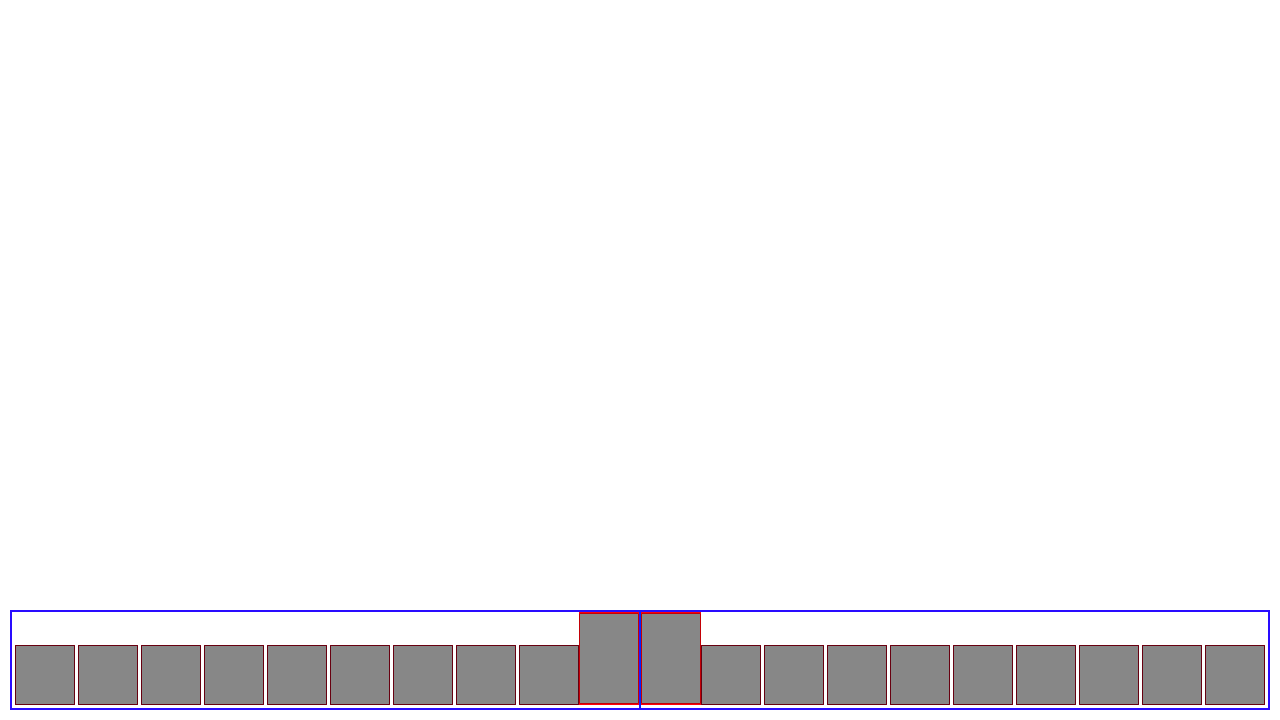
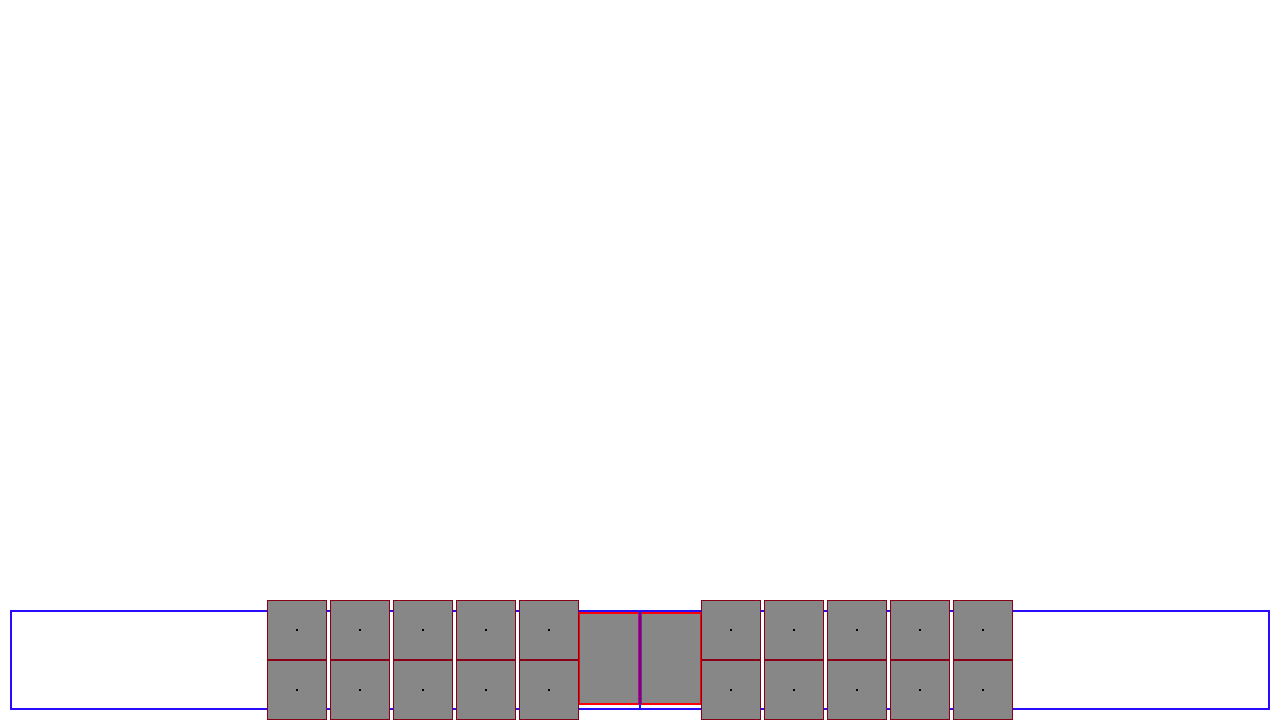
Modifying hotbar Slots to double efficiency.

Changed region(s): [[0.5312, 0.825, 1.0, 1.0], [0.0, 0.825, 0.4688, 1.0]]

diff --git a/src/globalvars.cpp b/src/globalvars.cpp
@@ -108,6 +108,7 @@ critScore::critScore()
 
 void assignSlotPos()
 {
+    /* Old straight line slot positions.
     for( int i = 0; i != 20; i++)
     {
         sf::Vector2f vPos;
@@ -158,6 +159,65 @@ void assignSlotPos()
                 vPos = sf::Vector2f(1234, 674);
         gvars::slotPos.push_back(vPos);
     }
+
+    */
+
+    for( int i = 0; i != 20; i++)
+    {
+        sf::Vector2f vPos;
+            //Left slots
+            if(i == 0)
+                vPos = sf::Vector2f(608,657);
+            if(i == 1)
+                vPos = sf::Vector2f(670,657);
+
+            if(i == 2)
+                vPos = sf::Vector2f(548, 629); // 764?
+            if(i == 4)
+                vPos = sf::Vector2f(548, 689);
+            if(i == 6)
+                vPos = sf::Vector2f(485, 629);
+            if(i == 8)
+                vPos = sf::Vector2f(485, 689);
+            if(i == 10)
+                vPos = sf::Vector2f(422, 629);
+            if(i == 12)
+                vPos = sf::Vector2f(422, 689);
+            if(i == 14)
+                vPos = sf::Vector2f(359, 629);
+            if(i == 16)
+                vPos = sf::Vector2f(359, 689);
+            if(i == 18)
+                vPos = sf::Vector2f(296, 629);
+            if(i == 20)
+                vPos = sf::Vector2f(296, 689);
+
+
+            // Right slots
+            if(i == 3)
+                vPos = sf::Vector2f(730, 629);
+            if(i == 5)
+                vPos = sf::Vector2f(730, 689);
+            if(i == 7)
+                vPos = sf::Vector2f(793, 629);
+            if(i == 9)
+                vPos = sf::Vector2f(793, 689);
+            if(i == 11)
+                vPos = sf::Vector2f(858, 629);
+            if(i == 13)
+                vPos = sf::Vector2f(858, 689);
+            if(i == 15)
+                vPos = sf::Vector2f(919, 629);
+            if(i == 17)
+                vPos = sf::Vector2f(919, 689);
+            if(i == 19)
+                vPos = sf::Vector2f(982, 629);
+            if(i == 21)
+                vPos = sf::Vector2f(982, 689);
+        gvars::slotPos.push_back(vPos);
+    }
+
+
 
 }
 

diff --git a/src/BountyTower.cpp b/src/BountyTower.cpp
@@ -2579,6 +2579,49 @@ void showItemProgressCone()
     }
 }
 
+void newSlotWorkMethod()
+{
+    int slotCount = 10;
+    float xCenter = screen.x()/2;
+    float yPos = 600;
+    bool xFlip = false;
+    bool yFlip = false;
+    int xOffset = 0;
+
+    for(int i = 0; i != slotCount; i++)
+    {
+        float xDrawPos;
+        float yDrawPos;
+        if(xFlip)
+            xDrawPos = xCenter + (xOffset*30);
+        else
+            xDrawPos = xCenter + -(xOffset*30);
+
+        if(yFlip)
+            yDrawPos = yPos + 60;
+        else
+            yDrawPos = yPos;
+
+        shapes.createSquare(xDrawPos+5,yDrawPos,xDrawPos+60-5,yDrawPos+60,sf::Color::Cyan,0,sf::Color::Cyan,&gvars::hudView);
+
+        textList.createText(sf::Vector2f(xDrawPos,yDrawPos),10,sf::Color::White,"Slot: " + str(i),gvars::hudView);
+
+        /*
+        if(i < 2)
+            shapes.createSquare(xDrawPos+5,yPos,xDrawPos+60-5,yPos+120,sf::Color::Cyan,0,sf::Color::Cyan,&gvars::hudView);
+        else
+            shapes.createSquare(xDrawPos+5,yPos,xDrawPos+60-5,yPos+60,sf::Color::Cyan,0,sf::Color::Cyan,&gvars::hudView);
+        */
+
+        if(xFlip)
+            xOffset++;
+
+        toggle(xFlip);
+        if((i % 4) == 0)
+            toggle(yFlip);
+    }
+}
+
 void bountyTowerLoop()
 { // Game Loop
     hotkeySquaddieSelect();
